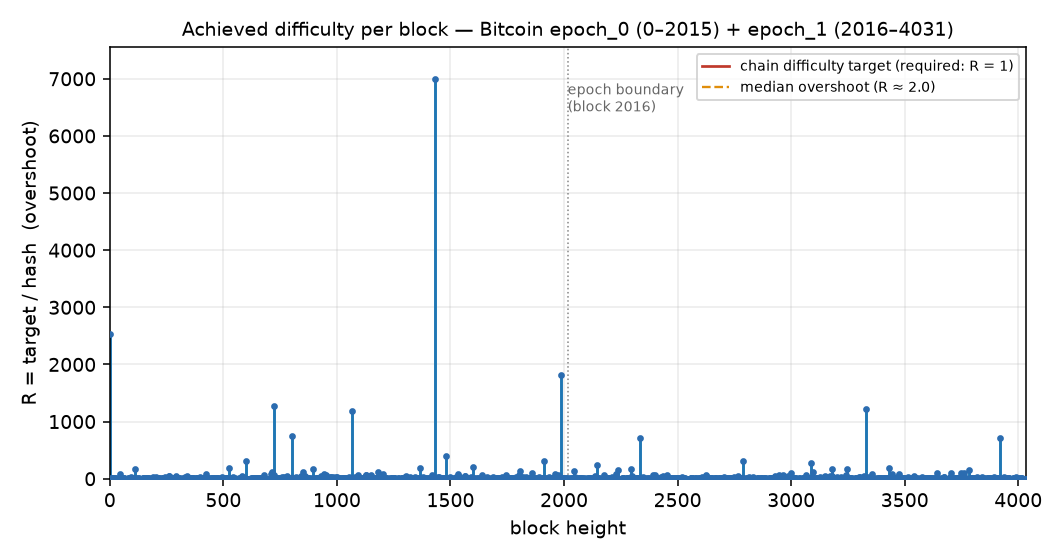
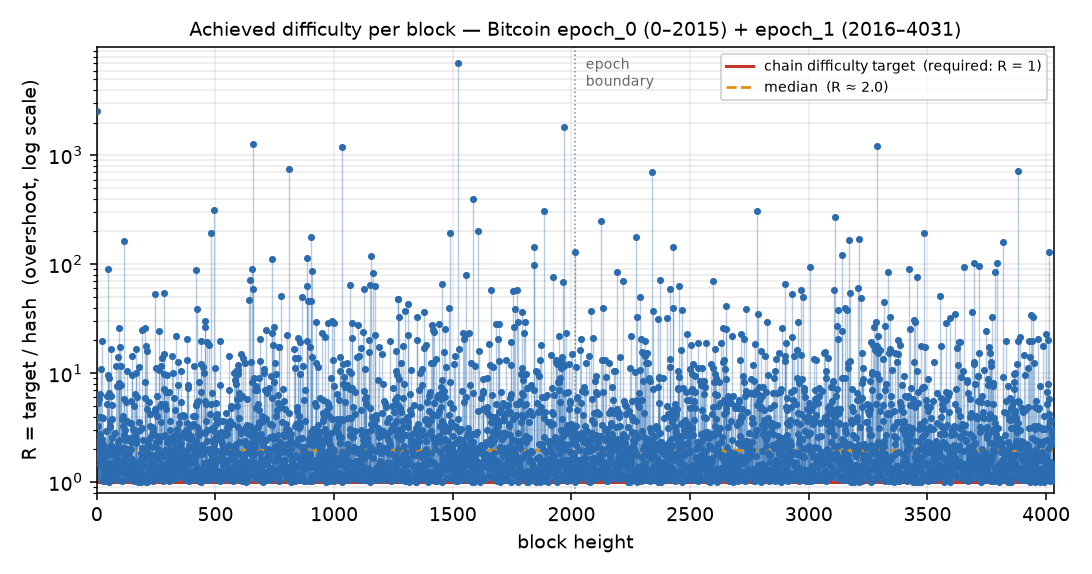
pages: swap to log-y charts (from our own full node) — reference lines visible, fixes scaling

diff --git a/real-difficulty.html b/real-difficulty.html
@@ -52,7 +52,7 @@
 </figure>
 <figure>
 <img src="img/real-diff-real.png" alt="achieved difficulty per block, real BTC data" style="max-width:100%;height:auto;border:1px solid #e6e6e6;border-radius:4px">
-<figcaption>The same data, recomputed over all 4,032 blocks (R = target/hash; difficulty = 1 throughout both epochs, so R is the block&rsquo;s own overshoot). The chain only requires R &ge; 1; the rare spikes are pure luck. Median R &asymp; 2.</figcaption>
+<figcaption>The same data on a log scale, recomputed over all 4,032 blocks straight from a full Bitcoin node (difficulty = 1 throughout both epochs, so R = target/hash is each block&rsquo;s own overshoot). The red line is the chain&rsquo;s requirement (R = 1); the dashed line the median (R &asymp; 2). Every block clears R = 1; the protocol asked for none of the height above &mdash; that is pure luck.</figcaption>
 </figure>
 
 <h2>Dividing target by hash</h2>
@@ -81,7 +81,7 @@
 
 <figure>
 <img src="img/real-diff-illustrative.png" alt="illustrative overshoot distribution" style="max-width:100%;height:auto;border:1px solid #e6e6e6;border-radius:4px">
-<figcaption>Illustrative: the overshoot R follows Pr[R &ge; r] = 1/r, whose mean does not converge &mdash; a single lucky hash can dwarf all others. This is why achieved difficulty cannot be a payment weight, only a work estimator.</figcaption>
+<figcaption>Illustrative (log scale): the overshoot R follows Pr[R &ge; r] = 1/r, whose mean does not converge &mdash; a single lucky hash can dwarf all others. This is why achieved difficulty cannot be a payment weight, only a work estimator.</figcaption>
 </figure>
 <hr style="margin:2.4em 0 1em;border:none;border-top:1px solid #eee">
 <p class="sub">P2Pool scientific basics &mdash; republished and version-controlled. <a href="./">V37 Purple Paper &rarr;</a></p>